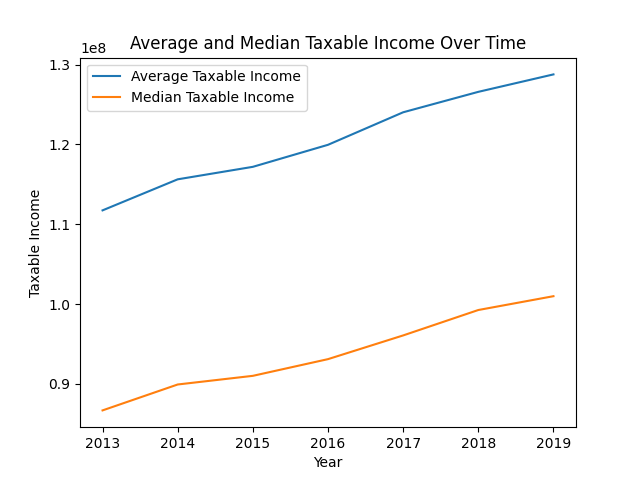
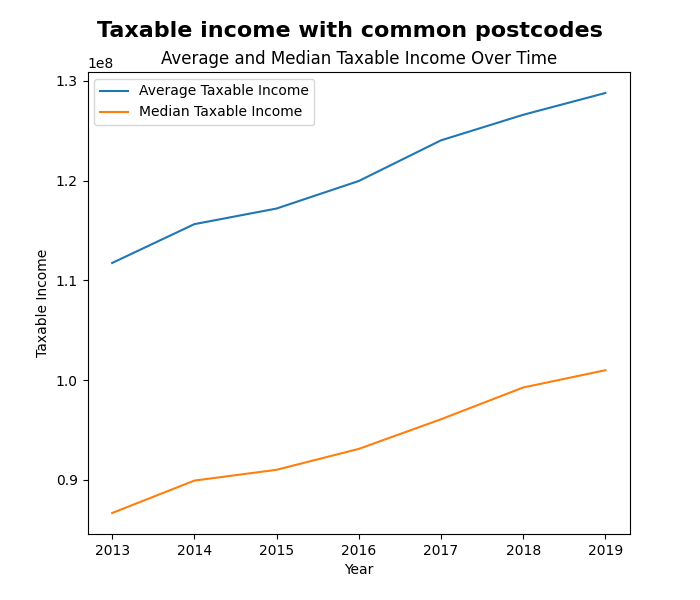
update graphs

diff --git a/Analyze_Data/unique_postcodes.py b/Analyze_Data/unique_postcodes.py
@@ -42,13 +42,17 @@ sizes = [x[1] for x in sorted_postcodes]
 explode = [0.1 for i in range(len(postcodes))]
 # only "explode" the 2nd slice (i.e. 'Hogs')
 
-fig1, ax1 = plt.subplots()
-ax1.pie(sizes, explode=explode, labels=labels, autopct='%1.1f%%',
-        shadow=True, startangle=90)
-ax1.axis('equal')  # Equal aspect ratio ensures that pie is drawn as a circle.
+# fig1, ax1 = plt.subplots()
+plt.figure('Unique Postcodes (with more than 500 ABNs)', figsize=(8, 7))
+# plt.title('Unique Postcodes (with more than 500 ABNs)')
+plt.suptitle("Unique Postcodes (with more than 500 ABNs)", y=0.965, fontweight="bold", fontsize=16)
 
-plt.title('Unique Postcodes (with more than 500 ABNs)')
 plt.text(0, -1.5, f'Total number of unique postcodes shown: {len(postcodes)}/{postcodes_amount}')
+
+plt.pie(sizes, explode=explode, labels=labels, autopct='%1.1f%%',
+        shadow=True, startangle=90)
+plt.axis('equal')  # Equal aspect ratio ensures that pie is drawn as a circle.
+
 
 ### Showing/saving the plot ###
 print("showing plot...")

diff --git a/Analyze_Data/population_income_working_laborsize.py b/Analyze_Data/population_income_working_laborsize.py
@@ -49,12 +49,20 @@ for code in postcodes:
 # income 2021 vs 2011
 # working age population 2021 vs 2011
 fig, (ax1, ax2, ax3) = plt.subplots(3, 1)
+fig.canvas.set_window_title('Census with common postcodes')
+fig.suptitle("Census with common postcodes", y=0.965, fontweight="bold", fontsize=16)
+fig.text(0.5, 0.91, '(based on business locations)', ha='center', fontsize=12)
+fig.set_figheight(7)
+fig.set_figwidth(7)
+
 ax1.bar(['2011', '2021'], [data_2011['population'], data_2021['population']])
 ax1.set_title('Population')
 ax2.bar(['2011', '2021'], [data_2011['income'], data_2021['income']])
 ax2.set_title('Income')
 ax3.bar(['2011', '2021'], [data_2011['working_age_population'], data_2021['working_age_population']])
 ax3.set_title('Working Age Population')
+
+plt.subplots_adjust(hspace=0.5, top=0.85)
 
 ### Showing/saving the plot ###
 print("showing plot...")

diff --git a/Analyze_Data/tax_generated_over_time.py b/Analyze_Data/tax_generated_over_time.py
@@ -89,14 +89,18 @@ for code in postcodes:
 # x axis: years
 # y axis: average taxable income
 # line graph (average taxable income) vs (median taxable income)
+plt.figure('Taxable income with common postcodes', figsize=(7, 6))
+plt.title('Average and Median Taxable Income Over Time')
+plt.suptitle("Taxable income with common postcodes", y=0.965, fontweight="bold", fontsize=16)
+plt.text(0.5, 0.95, '(based on business locations)', ha='center', fontsize=12)
+
 plt.plot(list(average_tax.keys()), list(average_tax.values()), label='Average Taxable Income')
 plt.plot(list(median_tax.keys()), list(median_tax.values()), label='Median Taxable Income')
+
 plt.xlabel('Year')
 plt.ylabel('Taxable Income')
-plt.title('Average and Median Taxable Income Over Time')
+
 plt.legend()
-
-
 
 # ### Showing/saving the plot ###
 print("showing plot...")
